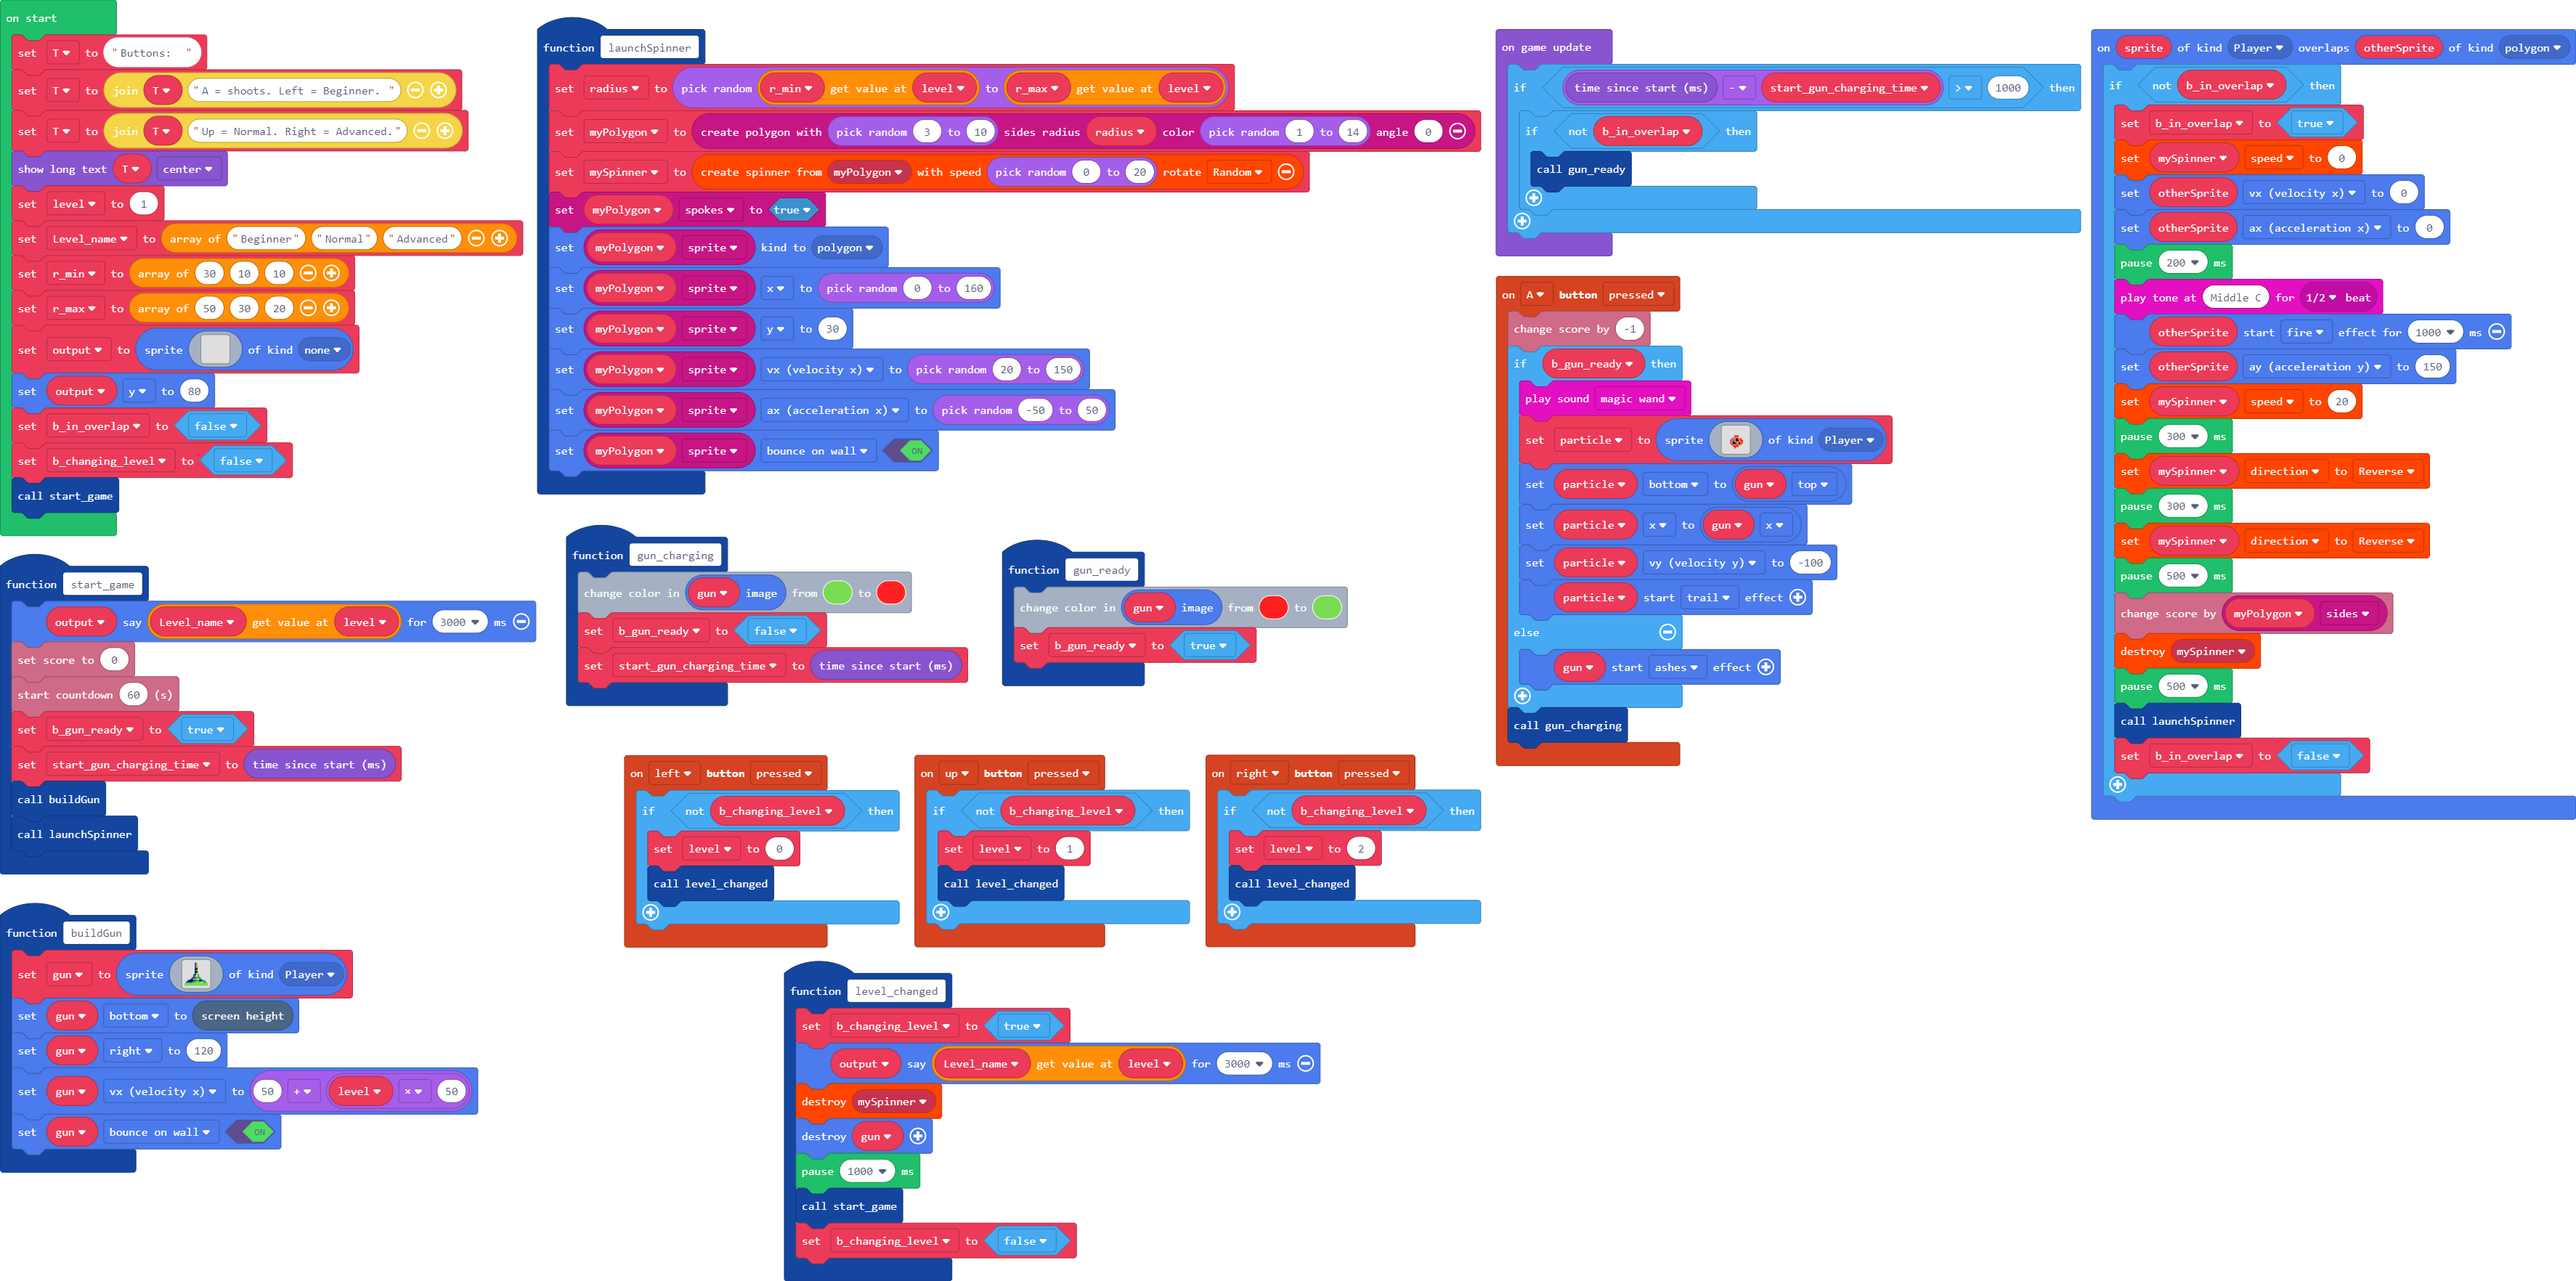
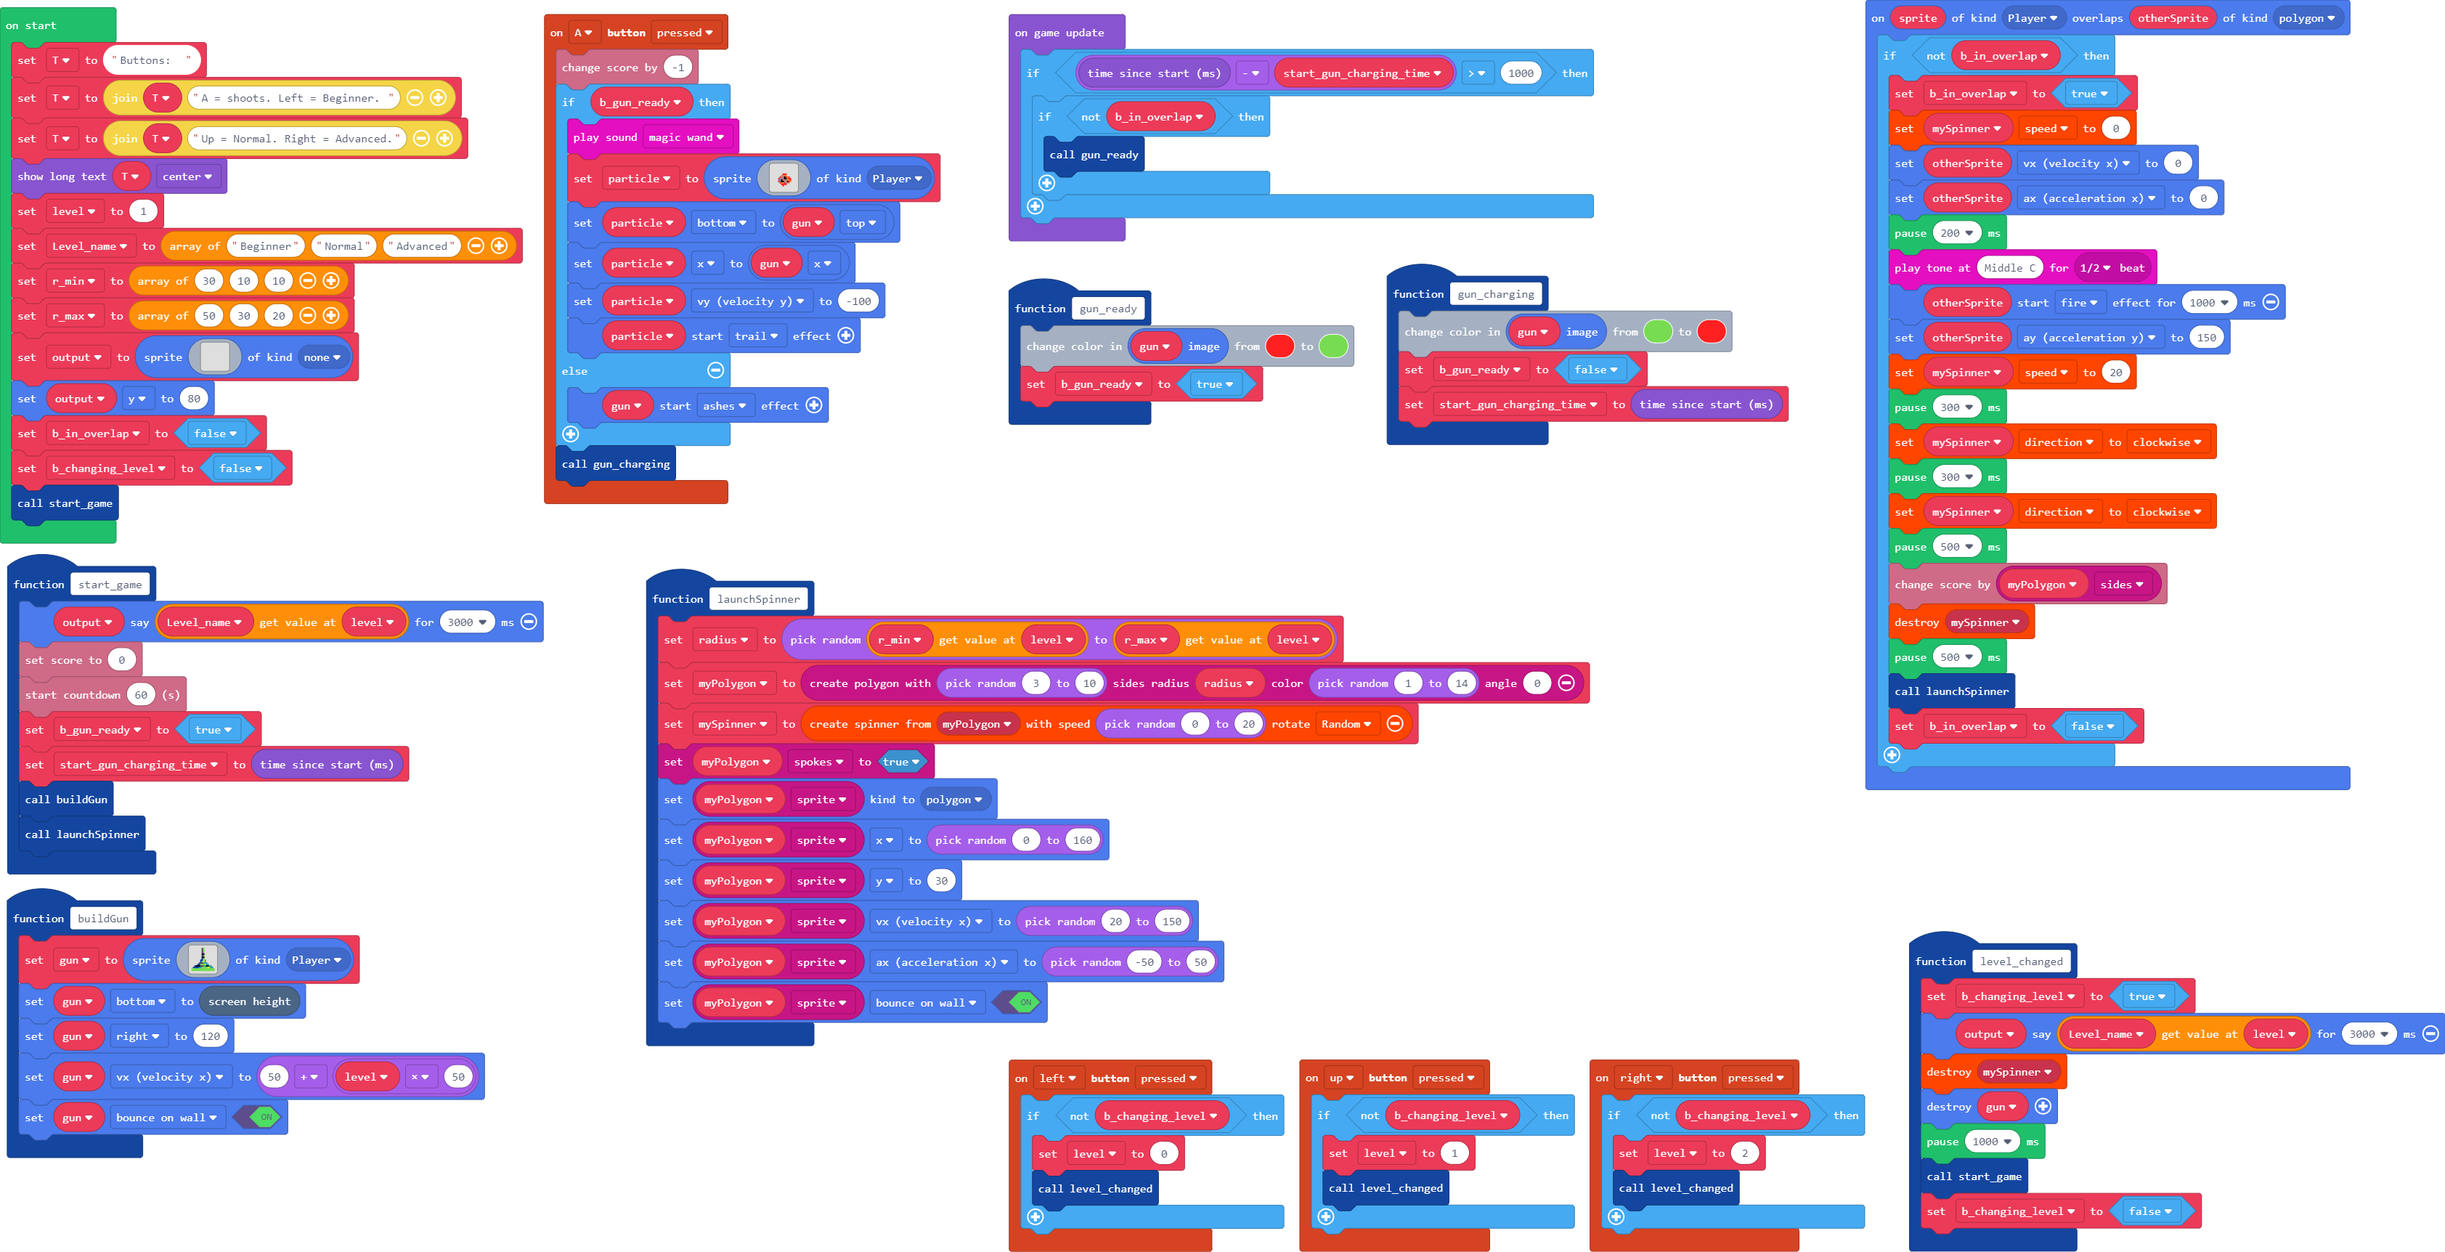
Update main.blocks, main.ts

diff --git a/main.ts b/main.ts
@@ -116,9 +116,9 @@ sprites.onOverlap(SpriteKind.Player, SpriteKind.polygon, function (sprite, other
         otherSprite.ay = 150
         mySpinner.speed = 20
         pause(300)
-        mySpinner.direction = Direction.Reverse
+        mySpinner.direction = Direction.Clockwise
         pause(300)
-        mySpinner.direction = Direction.Reverse
+        mySpinner.direction = Direction.Clockwise
         pause(500)
         info.changeScoreBy(myPolygon.sides)
         spinner.destroySpinner(mySpinner)
